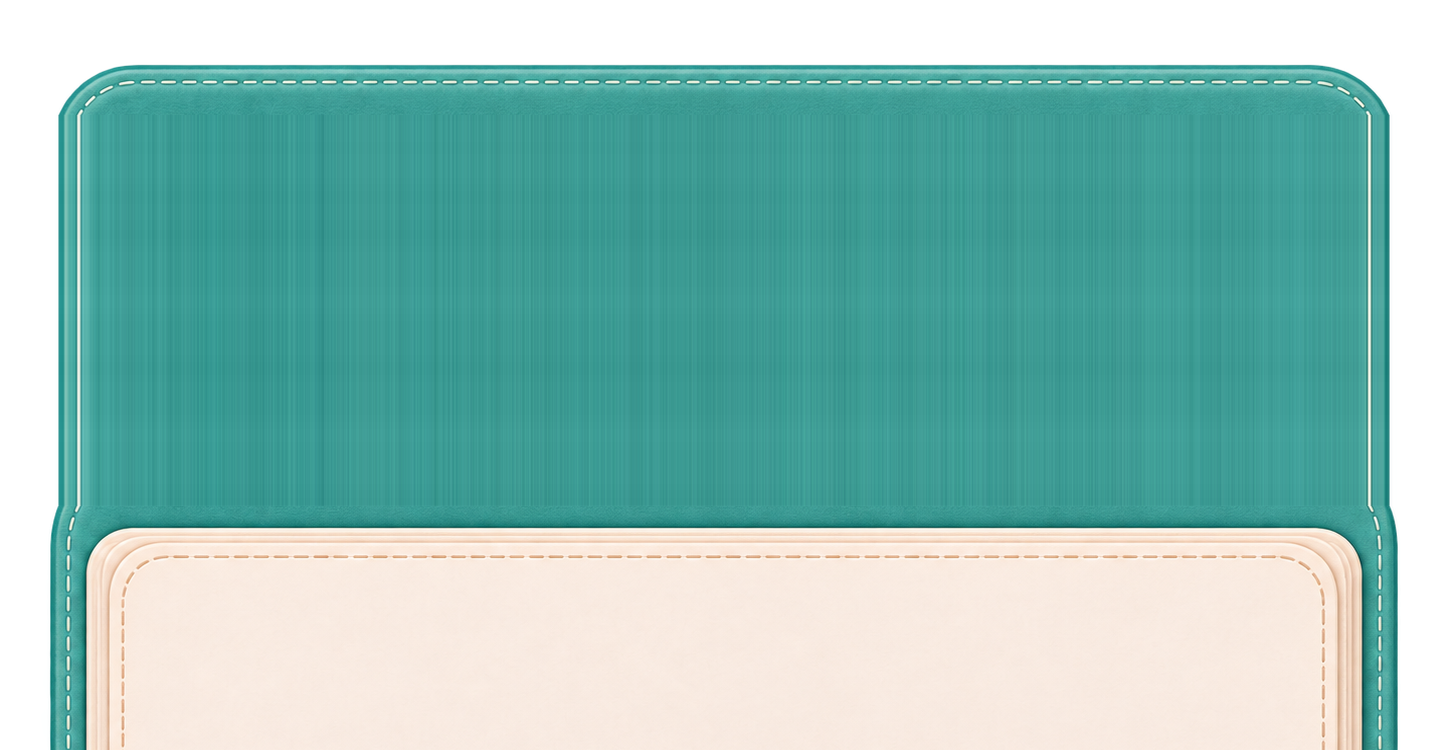
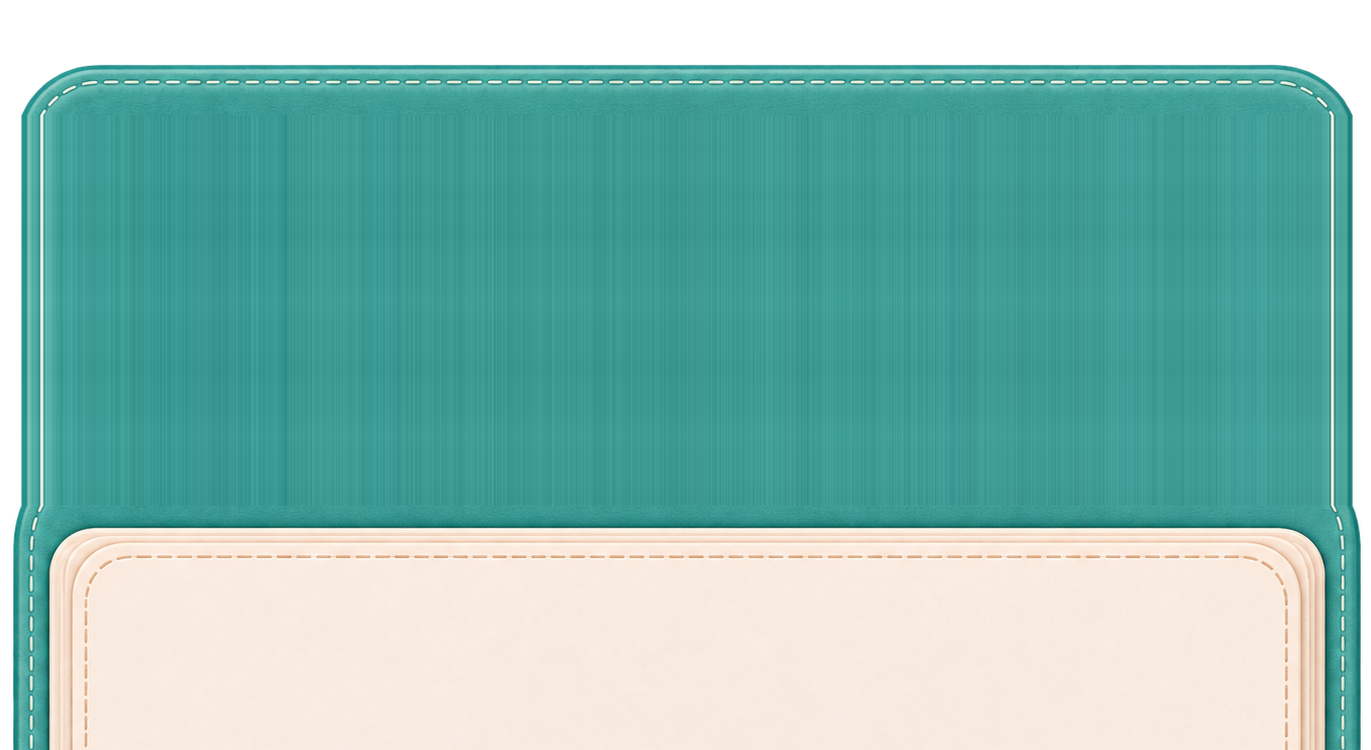
Add files via upload

diff --git a/thema.css b/thema.css
@@ -837,3 +837,39 @@ body[data-view="library"] .book-page,body[data-view="result"] .book-page{
     padding-right:22px!important;
   }
 }
+
+
+/* Kaku 4.2.2 — genuinely wider notebook image and protected paper insets. */
+/* Notebook layers have 77 px less transparent width, so the physical cover grows
+   instead of merely moving its HTML content closer to the edge. */
+.notebook-visual::before{top:26.25821cqw;bottom:22.31947cqw}
+.book-page,body:not(.quiz-view) .book-page,
+body[data-view="library"] .book-page,body[data-view="result"] .book-page{
+  width:min(calc(100% - 16px),1660px)!important;
+  padding-left:clamp(64px,6.55vw,116px)!important;
+  padding-right:clamp(64px,6.55vw,116px)!important;
+}
+@media(orientation:portrait),(max-width:850px){
+  .book-page,body:not(.quiz-view) .book-page,
+  body[data-view="library"] .book-page,body[data-view="result"] .book-page{
+    width:calc(100% - 12px)!important;
+    padding-left:clamp(46px,6.9vw,76px)!important;
+    padding-right:clamp(46px,6.9vw,76px)!important;
+  }
+  .notebook-visual::before{top:35.01094cqw}
+}
+@media(max-width:560px){
+  .book-page,body:not(.quiz-view) .book-page,
+  body[data-view="library"] .book-page,body[data-view="result"] .book-page{
+    width:calc(100% - 8px)!important;
+    padding-left:clamp(28px,8.2vw,40px)!important;
+    padding-right:clamp(28px,8.2vw,40px)!important;
+  }
+  .notebook-visual::before{top:54.70460cqw}
+}
+
+/* In portrait and narrow layouts, the illustrated notebook already includes
+   the front page edge. Its separate foreground overlay would cover the tabs. */
+@media (orientation:portrait),(max-width:850px){
+  .book-paper-lip{display:none!important}
+}

diff --git a/sw.js b/sw.js
@@ -1,5 +1,5 @@
-/* Kaku 4.2 — isolated assets, offline-first PWA. Progress remains in localStorage. */
-const CACHE='kaku-offline-v16-book42';
+/* Kaku 4.2.2 — isolated assets, offline-first PWA. Progress remains in localStorage. */
+const CACHE='kaku-offline-v17-book422';
 const APP_FILES=[
   "./",
   "./badge-niveau.svg",
